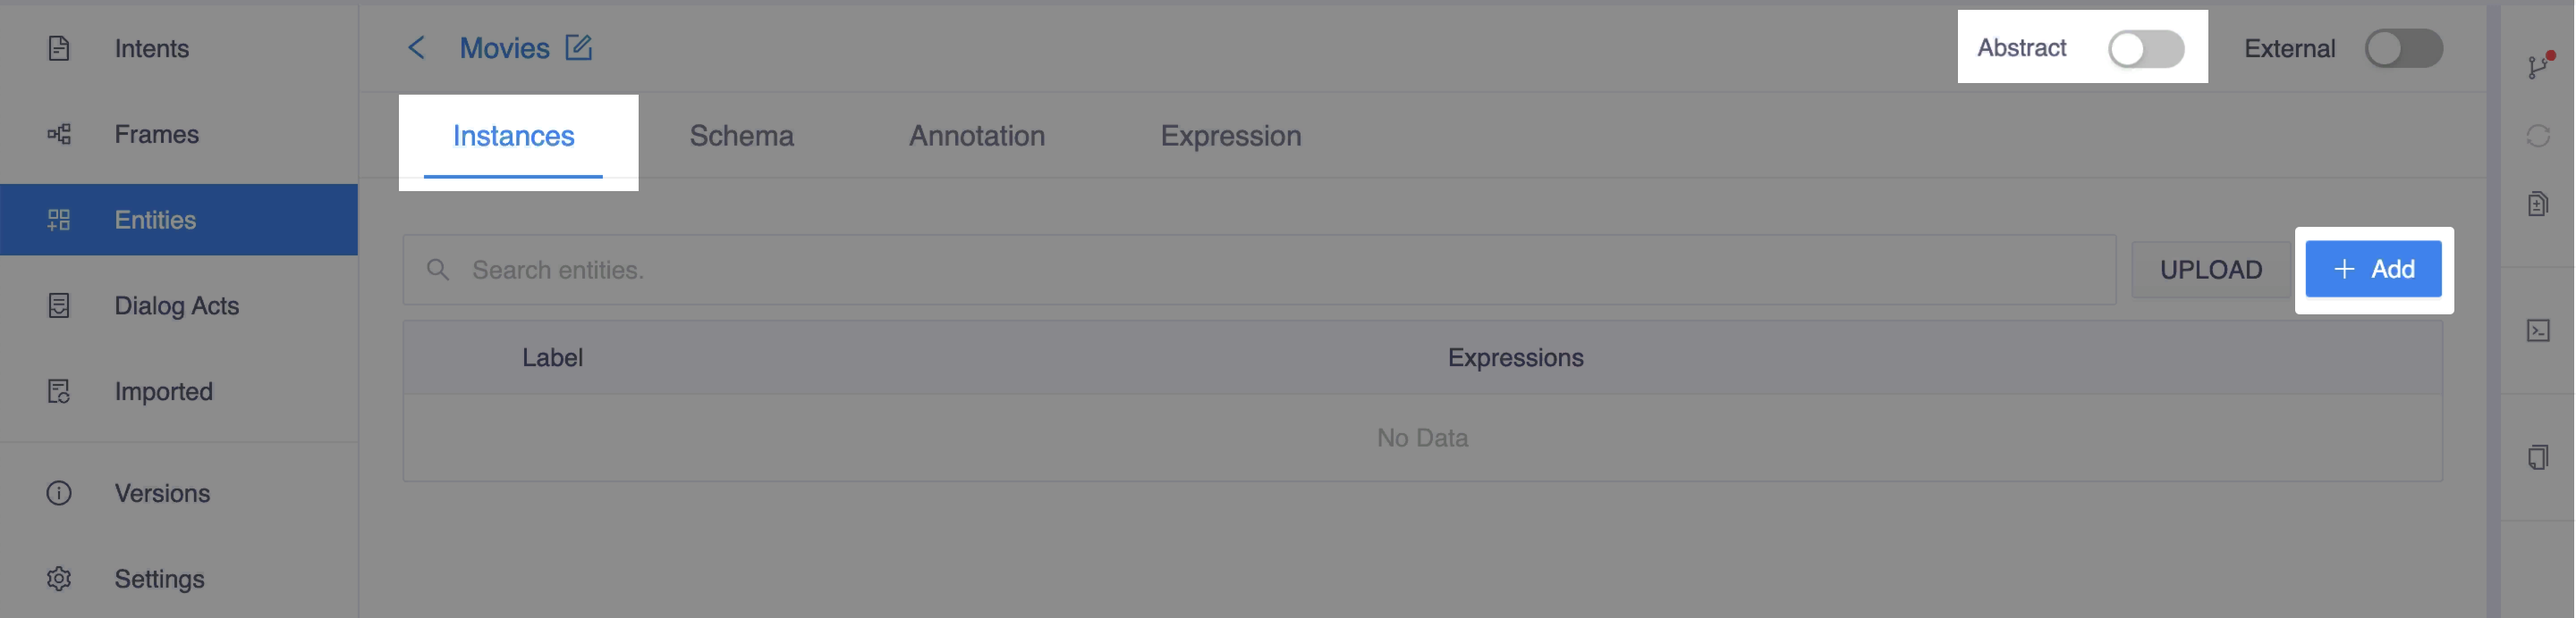
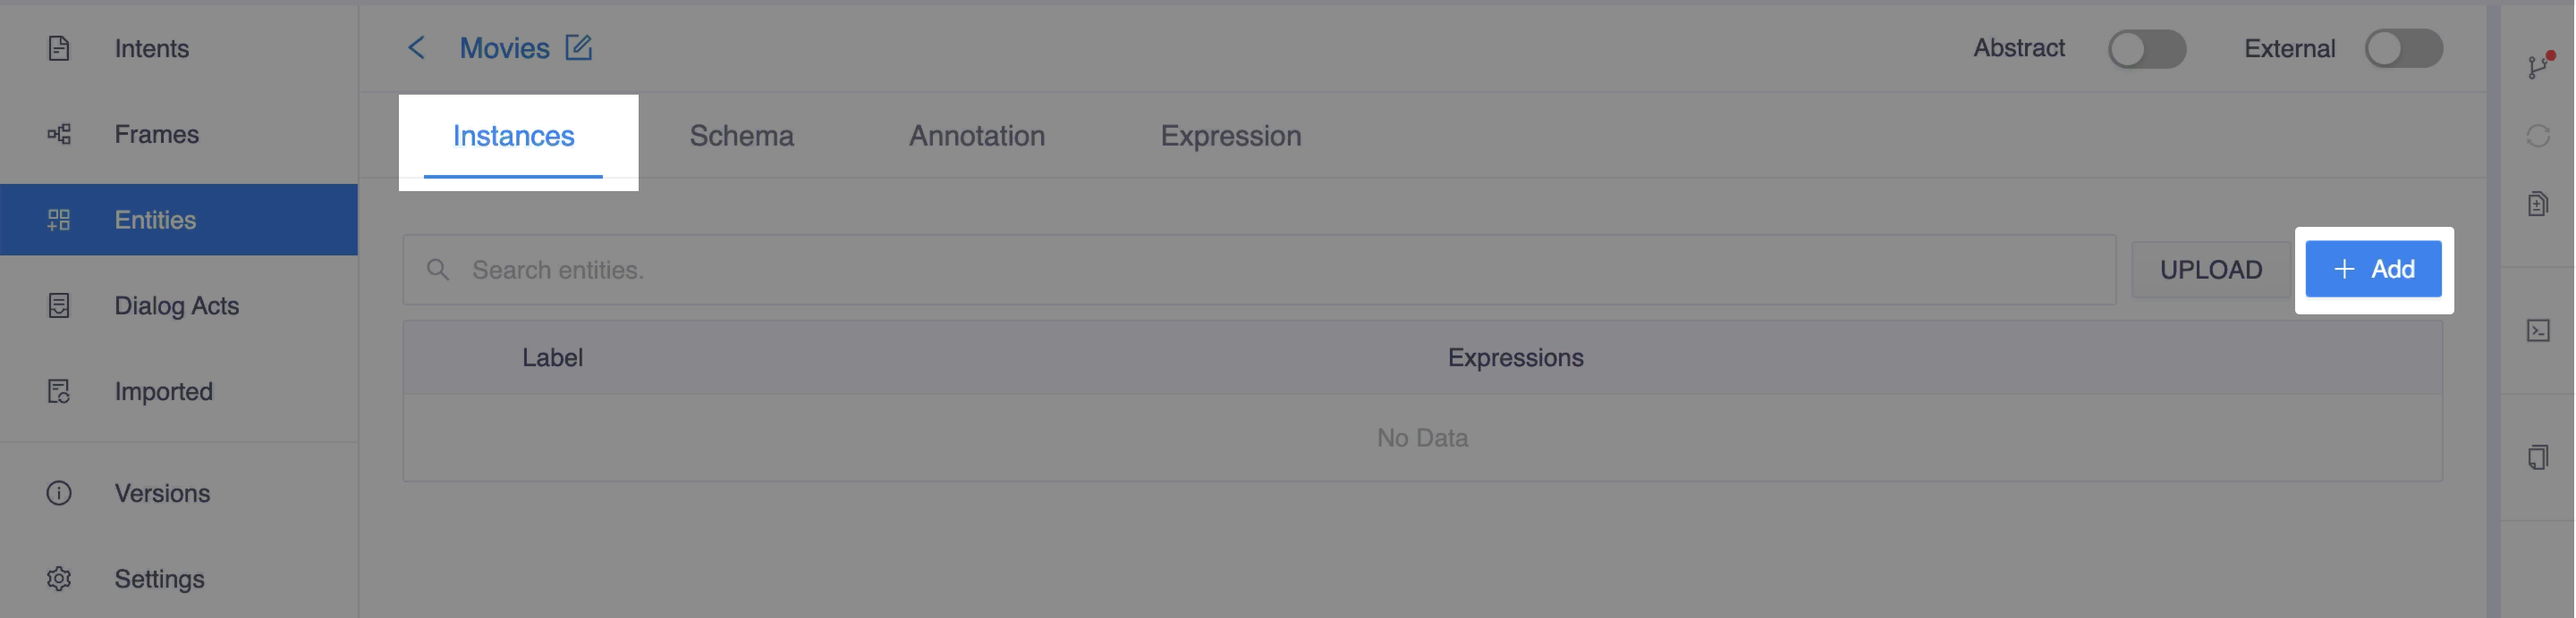
quick fix

Changed region(s): [[0.75, 0.0, 0.875, 0.1517]]

diff --git a/docs/guide/concepts.md b/docs/guide/concepts.md
@@ -56,10 +56,15 @@ In conversation layer, entity represents an instance of concept type, like "beij
 #### How To Define
 1. In the **Entities** field, click **Create**.
 2. To add an instance, click **Add** in the **Instances** section.
-3. To enable abstract, turn on **Abstract**.
 ::: thumbnail
 ![add instance](/images/guide/concepts/add-instance.png)
 :::
+
+3. To enable abstract, turn on **Abstract**.
+::: thumbnail
+![turn on abstract](/images/guide/concepts/turn-on-abstract.png)
+:::
+
 4. To add a parent entity, switch to **Schema** section and select an abstract entity in the **Parent Entities** section.
 ::: thumbnail
 ![add parent entity](/images/guide/concepts/add-parent-entity.png)
